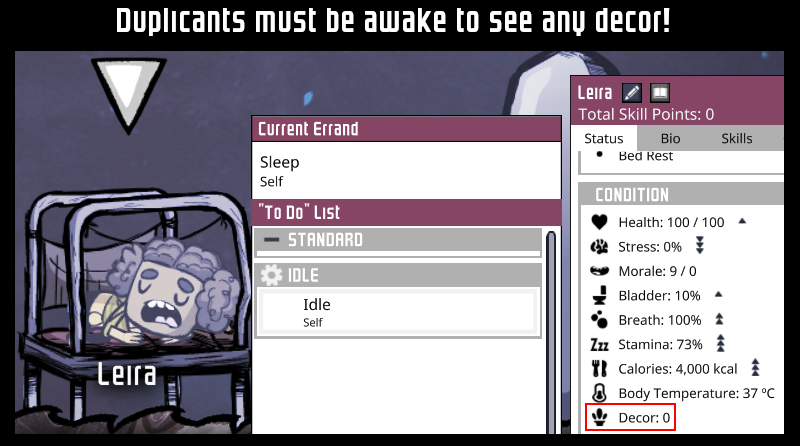
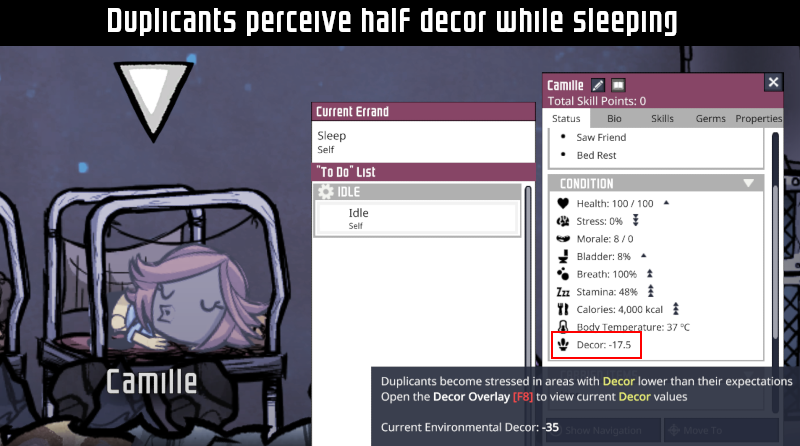
Add option to Decor Reimagined to control fraction of decor perceived while sleeping.
Add compost and empty storage options to Settings Change Tool.

diff --git a/BulkSettingsChange/BulkChangeTool.cs b/BulkSettingsChange/BulkChangeTool.cs
@@ -33,6 +33,22 @@ namespace PeterHan.BulkSettingsChange {
 		private static readonly Color32 TOOL_COLOR = new Color32(255, 172, 52, 255);
 
 		/// <summary>
+		/// A version of Compostable.OnToggleCompost that does not crash if the select tool
+		/// is not in use.
+		/// </summary>
+		/// <param name="comp">The item to toggle compost.</param>
+		private static void DoToggleCompost(Compostable comp) {
+			var obj = comp.gameObject;
+			var pickupable = obj.GetComponent<Pickupable>();
+			if (comp.isMarkedForCompost)
+				EntitySplitter.Split(pickupable, pickupable.TotalAmount, comp.originalPrefab);
+			else {
+				pickupable.storage?.Drop(obj, true);
+				EntitySplitter.Split(pickupable, pickupable.TotalAmount, comp.compostPrefab);
+			}
+		}
+
+		/// <summary>
 		/// Creates a popup on the cell of all buildings where a tool is applied.
 		/// </summary>
 		/// <param name="enable">true if the "enable" tool was used, false for "disable".</param>
@@ -106,7 +122,9 @@ namespace PeterHan.BulkSettingsChange {
 			if (Grid.IsValidCell(cell)) {
 				bool enable = BulkChangeTools.EnableBuildings.IsOn(options), changed = false,
 					disinfect = BulkChangeTools.EnableDisinfect.IsOn(options),
-					repair = BulkChangeTools.EnableRepair.IsOn(options);
+					repair = BulkChangeTools.EnableRepair.IsOn(options),
+					empty = BulkChangeTools.EnableEmpty.IsOn(options),
+					compost = BulkChangeTools.EnableCompost.IsOn(options);
 #if DEBUG
 				// Log what we are about to do
 				var xy = Grid.CellToXY(cell);
@@ -115,25 +133,38 @@ namespace PeterHan.BulkSettingsChange {
 #endif
 				if (enable || BulkChangeTools.DisableBuildings.IsOn(options)) {
 					// Enable/disable buildings
-					for (int i = 0; i < (int)Grid.SceneLayer.SceneMAX; i++)
+					for (int i = 0; i < (int)ObjectLayer.NumLayers; i++)
 						changed |= ToggleBuilding(cell, Grid.Objects[cell, i], enable);
 					if (changed)
 						ShowPopup(enable, BulkChangeTools.EnableBuildings, BulkChangeTools.
 							DisableBuildings, cell);
 				} else if (disinfect || BulkChangeTools.DisableDisinfect.IsOn(options)) {
 					// Enable/disable disinfect
-					for (int i = 0; i < (int)Grid.SceneLayer.SceneMAX; i++)
+					for (int i = 0; i < (int)ObjectLayer.NumLayers; i++)
 						changed |= ToggleDisinfect(cell, Grid.Objects[cell, i], disinfect);
 					if (changed)
 						ShowPopup(disinfect, BulkChangeTools.EnableDisinfect, BulkChangeTools.
 							DisableDisinfect, cell);
 				} else if (repair || BulkChangeTools.DisableRepair.IsOn(options)) {
 					// Enable/disable repair
-					for (int i = 0; i < (int)Grid.SceneLayer.SceneMAX; i++)
+					for (int i = 0; i < (int)ObjectLayer.NumLayers; i++)
 						changed |= ToggleRepair(cell, Grid.Objects[cell, i], repair);
 					if (changed)
 						ShowPopup(repair, BulkChangeTools.EnableRepair, BulkChangeTools.
 							DisableRepair, cell);
+				} else if (empty || BulkChangeTools.DisableEmpty.IsOn(options)) {
+					// Enable/disable empty storage
+					for (int i = 0; i < (int)ObjectLayer.NumLayers; i++)
+						changed |= ToggleEmptyStorage(cell, Grid.Objects[cell, i], empty);
+					if (changed)
+						ShowPopup(empty, BulkChangeTools.EnableEmpty, BulkChangeTools.
+							DisableEmpty, cell);
+				} else if (compost || BulkChangeTools.DisableCompost.IsOn(options)) {
+					// Enable/disable compost
+					if (ToggleCompost(cell, Grid.Objects[cell, (int)ObjectLayer.Pickupables],
+							compost))
+						ShowPopup(compost, BulkChangeTools.EnableCompost, BulkChangeTools.
+							DisableCompost, cell);
 				}
 			}
 		}
@@ -194,9 +225,7 @@ namespace PeterHan.BulkSettingsChange {
 		/// <param name="enable">true to enable it, or false to disable it.</param>
 		/// <returns>true if changes were made, or false otherwise.</returns>
 		private bool ToggleBuilding(int cell, GameObject building, bool enable) {
-#pragma warning disable IDE0031 // Use null propagation
-			var ed = (building == null) ? null : building.GetComponent<BuildingEnabledButton>();
-#pragma warning restore IDE0031 // Use null propagation
+			var ed = building.GetComponentSafe<BuildingEnabledButton>();
 			bool changed = false;
 			if (ed != null) {
 				var trEnableDisable = Traverse.Create(ed);
@@ -204,7 +233,7 @@ namespace PeterHan.BulkSettingsChange {
 				int toggleIndex = trEnableDisable.GetField<int>("ToggleIdx");
 				bool curEnabled = ed.IsEnabled, toggleQueued = building.GetComponent<
 					Toggleable>()?.IsToggleQueued(toggleIndex) ?? false;
-#if DEBUG
+#if false
 				var xy = Grid.CellToXY(cell);
 				PUtil.LogDebug("Checking building @({0:D},{1:D}): on={2}, queued={3}, " +
 					"desired={4}".F(xy.X, xy.Y, curEnabled, toggleQueued, enable));
@@ -218,9 +247,44 @@ namespace PeterHan.BulkSettingsChange {
 					if (priority != null)
 						priority.SetMasterPriority(ToolMenu.Instance.PriorityScreen.
 							GetLastSelectedPriority());
-					PUtil.LogDebug("Enable {2} @{0:D} = {1}".F(cell, enable, building.
-						GetProperName()));
+#if DEBUG
+					var xy = Grid.CellToXY(cell);
+					PUtil.LogDebug("Enable {3} @({0:D},{1:D}) = {2}".F(xy.X, xy.Y, enable,
+						building.GetProperName()));
+#endif
 					changed = true;
+				}
+			}
+			return changed;
+		}
+
+		/// <summary>
+		/// Toggles compost on the object.
+		/// </summary>
+		/// <param name="cell">The cell this object occupies.</param>
+		/// <param name="item">The object to toggle.</param>
+		/// <param name="enable">true to mark for compost, or false to unmark it.</param>
+		/// <returns>true if changes were made, or false otherwise.</returns>
+		private bool ToggleCompost(int cell, GameObject item, bool enable) {
+			var pickupable = item.GetComponentSafe<Pickupable>();
+			bool changed = false;
+			if (pickupable != null) {
+				var objectListNode = pickupable.objectLayerListItem;
+				while (objectListNode != null) {
+					var comp = objectListNode.gameObject.GetComponentSafe<Compostable>();
+					objectListNode = objectListNode.nextItem;
+					// Duplicants cannot be composted... this is not Rim World
+					if (comp != null && comp.isMarkedForCompost != enable) {
+						// OnToggleCompost method causes a crash because select tool is not
+						// active
+						DoToggleCompost(comp);
+#if DEBUG
+						var xy = Grid.CellToXY(cell);
+						PUtil.LogDebug("Compost {3} @({0:D},{1:D}) = {2}".F(xy.X, xy.Y,
+							enable, item.GetProperName()));
+#endif
+						changed = true;
+					}
 				}
 			}
 			return changed;
@@ -234,20 +298,43 @@ namespace PeterHan.BulkSettingsChange {
 		/// <param name="enable">true to enable auto disinfect, or false to disable it.</param>
 		/// <returns>true if changes were made, or false otherwise.</returns>
 		private bool ToggleDisinfect(int cell, GameObject item, bool enable) {
-			// == operator is overloaded on GameObject to be equal to null if destroyed
-#pragma warning disable IDE0031 // Use null propagation
-			var ad = (item == null) ? null : item.GetComponent<AutoDisinfectable>();
-#pragma warning restore IDE0031 // Use null propagation
+			var ad = item.GetComponentSafe<AutoDisinfectable>();
 			bool changed = false;
 			if (ad != null) {
 				var trAutoDisinfect = Traverse.Create(ad);
 				// Private methods grrr
 				if (trAutoDisinfect.GetField<bool>("enableAutoDisinfect") != enable) {
-					var xy = Grid.CellToXY(cell);
 					trAutoDisinfect.CallMethod(enable ? "EnableAutoDisinfect" :
 						"DisableAutoDisinfect");
+#if DEBUG
+					var xy = Grid.CellToXY(cell);
 					PUtil.LogDebug("Auto disinfect {3} @({0:D},{1:D}) = {2}".F(xy.X, xy.Y,
 						enable, item.GetProperName()));
+#endif
+					changed = true;
+				}
+			}
+			return changed;
+		}
+
+		/// <summary>
+		/// Toggles empty storage on the object.
+		/// </summary>
+		/// <param name="cell">The cell this building occupies.</param>
+		/// <param name="item">The item to toggle.</param>
+		/// <param name="enable">true to schedule for emptying, or false to disable it.</param>
+		/// <returns>true if changes were made, or false otherwise.</returns>
+		private bool ToggleEmptyStorage(int cell, GameObject item, bool enable) {
+			var daw = item.GetComponentSafe<DropAllWorkable>();
+			bool changed = false;
+			if (daw != null) {
+				if ((Traverse.Create(daw).GetField<Chore>("chore") != null) != enable) {
+					daw.DropAll();
+#if DEBUG
+					var xy = Grid.CellToXY(cell);
+					PUtil.LogDebug("Empty storage {3} @({0:D},{1:D}) = {2}".F(xy.X, xy.Y,
+						enable, item.GetProperName()));
+#endif
 					changed = true;
 				}
 			}
@@ -262,13 +349,9 @@ namespace PeterHan.BulkSettingsChange {
 		/// <param name="enable">true to enable auto repair, or false to disable it.</param>
 		/// <returns>true if changes were made, or false otherwise.</returns>
 		private bool ToggleRepair(int cell, GameObject item, bool enable) {
-			// == operator is overloaded on GameObject to be equal to null if destroyed
-#pragma warning disable IDE0031 // Use null propagation
-			var ar = (item == null) ? null : item.GetComponent<Repairable>();
-#pragma warning restore IDE0031 // Use null propagation
+			var ar = item.GetComponentSafe<Repairable>();
 			bool changed = false;
 			if (ar != null) {
-				var xy = Grid.CellToXY(cell);
 				var trRepairable = Traverse.Create(ar);
 				// Need to check the state machine directly
 				var smi = trRepairable.GetField<Repairable.SMInstance>("smi");
@@ -283,8 +366,11 @@ namespace PeterHan.BulkSettingsChange {
 					trRepairable.CallMethod("CancelRepair");
 					changed = true;
 				}
+#if DEBUG
+				var xy = Grid.CellToXY(cell);
 				PUtil.LogDebug("Auto repair {3} @({0:D},{1:D}) = {2}".F(xy.X, xy.Y, enable,
 					item.GetProperName()));
+#endif
 			}
 			return changed;
 		}
@@ -304,7 +390,7 @@ namespace PeterHan.BulkSettingsChange {
 				ToolMenu.Instance.PriorityScreen.Show(true);
 				OverlayScreen.Instance.ToggleOverlay(OverlayModes.Priorities.ID);
 			} else {
-				// Enable/Disable Auto-Repair
+				// Enable/Disable Auto-Repair, Compost, Empty Storage
 				ToolMenu.Instance.PriorityScreen.Show(false);
 				OverlayScreen.Instance.ToggleOverlay(OverlayModes.None.ID);
 			}

diff --git a/BulkSettingsChange/BulkChangeStrings.cs b/BulkSettingsChange/BulkChangeStrings.cs
@@ -35,10 +35,14 @@ namespace PeterHan.BulkSettingsChange {
 
 		// Tool strings
 		public static LocString TOOL_DISABLE_BUILDINGS = "Building Disabled";
+		public static LocString TOOL_DISABLE_COMPOST = "Compost Disabled";
 		public static LocString TOOL_DISABLE_DISINFECT = "Disinfect Disabled";
+		public static LocString TOOL_DISABLE_EMPTY = "Empty Storage Cancelled";
 		public static LocString TOOL_DISABLE_REPAIR = "Auto-Repair Disabled";
 		public static LocString TOOL_ENABLE_BUILDINGS = "Building Enabled";
+		public static LocString TOOL_ENABLE_COMPOST = "Compost Enabled";
 		public static LocString TOOL_ENABLE_DISINFECT = "Disinfect Enabled";
+		public static LocString TOOL_ENABLE_EMPTY = "Storage Emptied";
 		public static LocString TOOL_ENABLE_REPAIR = "Auto-Repair Enabled";
 	}
 
@@ -50,18 +54,30 @@ namespace PeterHan.BulkSettingsChange {
 		public static readonly BulkToolMode DisableBuildings = new BulkToolMode(
 			"DISABLE_BUILDING", STRINGS.UI.USERMENUACTIONS.ENABLEBUILDING.NAME,
 			BulkChangeStrings.TOOL_DISABLE_BUILDINGS);
+		public static readonly BulkToolMode DisableCompost = new BulkToolMode(
+			"DISABLE_COMPOST", STRINGS.UI.USERMENUACTIONS.COMPOST.NAME_OFF,
+			BulkChangeStrings.TOOL_DISABLE_COMPOST);
 		public static readonly BulkToolMode DisableDisinfect = new BulkToolMode(
 			"DISABLE_DISINFECT", STRINGS.BUILDINGS.AUTODISINFECTABLE.DISABLE_AUTODISINFECT.
 			NAME, BulkChangeStrings.TOOL_DISABLE_DISINFECT);
+		public static readonly BulkToolMode DisableEmpty = new BulkToolMode(
+			"DISABLE_EMPTY", STRINGS.UI.USERMENUACTIONS.EMPTYSTORAGE.NAME_OFF,
+			BulkChangeStrings.TOOL_DISABLE_EMPTY);
 		public static readonly BulkToolMode DisableRepair = new BulkToolMode(
 			"DISABLE_REPAIR", STRINGS.BUILDINGS.REPAIRABLE.DISABLE_AUTOREPAIR.NAME,
 			BulkChangeStrings.TOOL_DISABLE_REPAIR);
 		public static readonly BulkToolMode EnableBuildings = new BulkToolMode(
 			"ENABLE_BUILDING", STRINGS.UI.USERMENUACTIONS.ENABLEBUILDING.NAME_OFF,
 			BulkChangeStrings.TOOL_ENABLE_BUILDINGS);
+		public static readonly BulkToolMode EnableCompost = new BulkToolMode(
+			"ENABLE_COMPOST", STRINGS.UI.USERMENUACTIONS.COMPOST.NAME,
+			BulkChangeStrings.TOOL_ENABLE_COMPOST);
 		public static readonly BulkToolMode EnableDisinfect = new BulkToolMode(
 			"ENABLE_DISINFECT", STRINGS.BUILDINGS.AUTODISINFECTABLE.ENABLE_AUTODISINFECT.NAME,
 			BulkChangeStrings.TOOL_ENABLE_DISINFECT);
+		public static readonly BulkToolMode EnableEmpty = new BulkToolMode(
+			"ENABLE_EMPTY", STRINGS.UI.USERMENUACTIONS.EMPTYSTORAGE.NAME,
+			BulkChangeStrings.TOOL_ENABLE_EMPTY);
 		public static readonly BulkToolMode EnableRepair = new BulkToolMode(
 			"ENABLE_REPAIR", STRINGS.BUILDINGS.REPAIRABLE.ENABLE_AUTOREPAIR.NAME,
 			BulkChangeStrings.TOOL_ENABLE_REPAIR);

diff --git a/BulkSettingsChange/BulkToolMode.cs b/BulkSettingsChange/BulkToolMode.cs
@@ -29,7 +29,7 @@ namespace PeterHan.BulkSettingsChange {
 		/// A dictionary to look tool modes up by key.
 		/// </summary>
 		private static readonly IDictionary<string, BulkToolMode> MODES = new Dictionary<
-			string, BulkToolMode>(6);
+			string, BulkToolMode>(10);
 
 		/// <summary>
 		/// Retrieves a collection of all tool modes.
@@ -47,18 +47,16 @@ namespace PeterHan.BulkSettingsChange {
 			lock (MODES) {
 				if (MODES.Count < 1) {
 					// Initialize dictionary
-					MODES.Add(BulkChangeTools.DisableBuildings.Key, BulkChangeTools.
-						DisableBuildings);
-					MODES.Add(BulkChangeTools.EnableBuildings.Key, BulkChangeTools.
-						EnableBuildings);
-					MODES.Add(BulkChangeTools.DisableDisinfect.Key, BulkChangeTools.
-						DisableDisinfect);
-					MODES.Add(BulkChangeTools.EnableDisinfect.Key, BulkChangeTools.
-						EnableDisinfect);
-					MODES.Add(BulkChangeTools.DisableRepair.Key, BulkChangeTools.
-						DisableRepair);
-					MODES.Add(BulkChangeTools.EnableRepair.Key, BulkChangeTools.
-						EnableRepair);
+					BulkChangeTools.DisableBuildings.AddTo(MODES);
+					BulkChangeTools.EnableBuildings.AddTo(MODES);
+					BulkChangeTools.DisableDisinfect.AddTo(MODES);
+					BulkChangeTools.EnableDisinfect.AddTo(MODES);
+					BulkChangeTools.DisableRepair.AddTo(MODES);
+					BulkChangeTools.EnableRepair.AddTo(MODES);
+					BulkChangeTools.DisableCompost.AddTo(MODES);
+					BulkChangeTools.EnableCompost.AddTo(MODES);
+					BulkChangeTools.DisableEmpty.AddTo(MODES);
+					BulkChangeTools.EnableEmpty.AddTo(MODES);
 #if DEBUG
 					foreach (var mode in MODES)
 						PUtil.LogDebug("Tool mode: " + mode.Value);
@@ -106,6 +104,14 @@ namespace PeterHan.BulkSettingsChange {
 			Key = key ?? throw new ArgumentNullException("key");
 			Name = name ?? throw new ArgumentNullException("name");
 			PopupText = popup ?? throw new ArgumentNullException("popup");
+		}
+
+		/// <summary>
+		/// Adds this tool to the tool list.
+		/// </summary>
+		/// <param name="tools">The location where the tool should be added.</param>
+		private void AddTo(IDictionary<string, BulkToolMode> tools) {
+			tools.Add(Key, this);
 		}
 
 		/// <summary>

diff --git a/DecorReimagined/DecorReimaginedPatches.cs b/DecorReimagined/DecorReimaginedPatches.cs
@@ -139,7 +139,10 @@ namespace ReimaginationTeam.DecorRework {
 		/// </summary>
 		[HarmonyPatch(typeof(DecorMonitor.Instance), "Update")]
 		public static class DecorMonitor_Instance_Update_Patch {
-			private const float SLEW = 4.16666651f;
+			/// <summary>
+			/// The slew speed of displayed decor.
+			/// </summary>
+			private const float SLEW = 4.166666667f;
 
 			/// <summary>
 			/// Applied before Update runs.
@@ -157,9 +160,9 @@ namespace ReimaginationTeam.DecorRework {
 					// Slew to zero decor if sleeping
 					float decorAtCell = GameUtil.GetDecorAtCell(Grid.PosToCell(obj));
 					if (chore != null && chore.choreType == Db.Get().ChoreTypes.Sleep)
-						decorAtCell = 0.0f;
+						decorAtCell *= DecorTuning.DECOR_FRACTION_SLEEP;
 					___cycleTotalDecor += decorAtCell * dt;
-					// Constants copied from the base game
+					// Constants are the same as the base game
 					float value = 0.0f, curDecor = ___amount.value;
 					if (Mathf.Abs(decorAtCell - curDecor) > 0.5f) {
 						if (decorAtCell > curDecor)

diff --git a/PLib/ExtensionMethods.cs b/PLib/ExtensionMethods.cs
@@ -59,6 +59,19 @@ namespace PeterHan.PLib {
 		}
 
 		/// <summary>
+		/// Retrieves a component, but returns null if the GameObject is disposed.
+		/// </summary>
+		/// <typeparam name="T">The component type to retrieve.</typeparam>
+		/// <param name="obj">The GameObject that hosts the component.</param>
+		/// <returns>The requested component, or null if it does not exist</returns>
+		public static T GetComponentSafe<T>(this GameObject obj) where T : Component {
+#pragma warning disable IDE0031 // Use null propagation
+			// == operator is overloaded on GameObject to be equal to null if destroyed
+			return (obj == null) ? null : obj.GetComponent<T>();
+#pragma warning restore IDE0031 // Use null propagation
+		}
+
+		/// <summary>
 		/// Uses Traverse to retrieve a private field of an object.
 		/// </summary>
 		/// <param name="root">The object on which to get the field.</param>

diff --git a/DecorReimagined/DecorTuning.cs b/DecorReimagined/DecorTuning.cs
@@ -37,6 +37,11 @@ namespace ReimaginationTeam.DecorRework {
 		public const float DECOR_EFFECT_LEN = 660.0f;
 
 		/// <summary>
+		/// The percentage of decor perceived in sleep.
+		/// </summary>
+		public const float DECOR_FRACTION_SLEEP = 0.5f;
+
+		/// <summary>
 		/// Replaces the stock decor morale bonuses.
 		/// </summary>
 		private static readonly DecorLevel[] DECOR_LEVELS = {

diff --git a/PLib/PVersion.cs b/PLib/PVersion.cs
@@ -27,7 +27,7 @@ namespace PeterHan.PLib {
 		/// <summary>
 		/// The PLib version.
 		/// </summary>
-		public const string VERSION = "2.15.5.0";
+		public const string VERSION = "2.15.6.0";
 
 		/// <summary>
 		/// Reports whether the PLib version included or referenced by this mod is the latest
